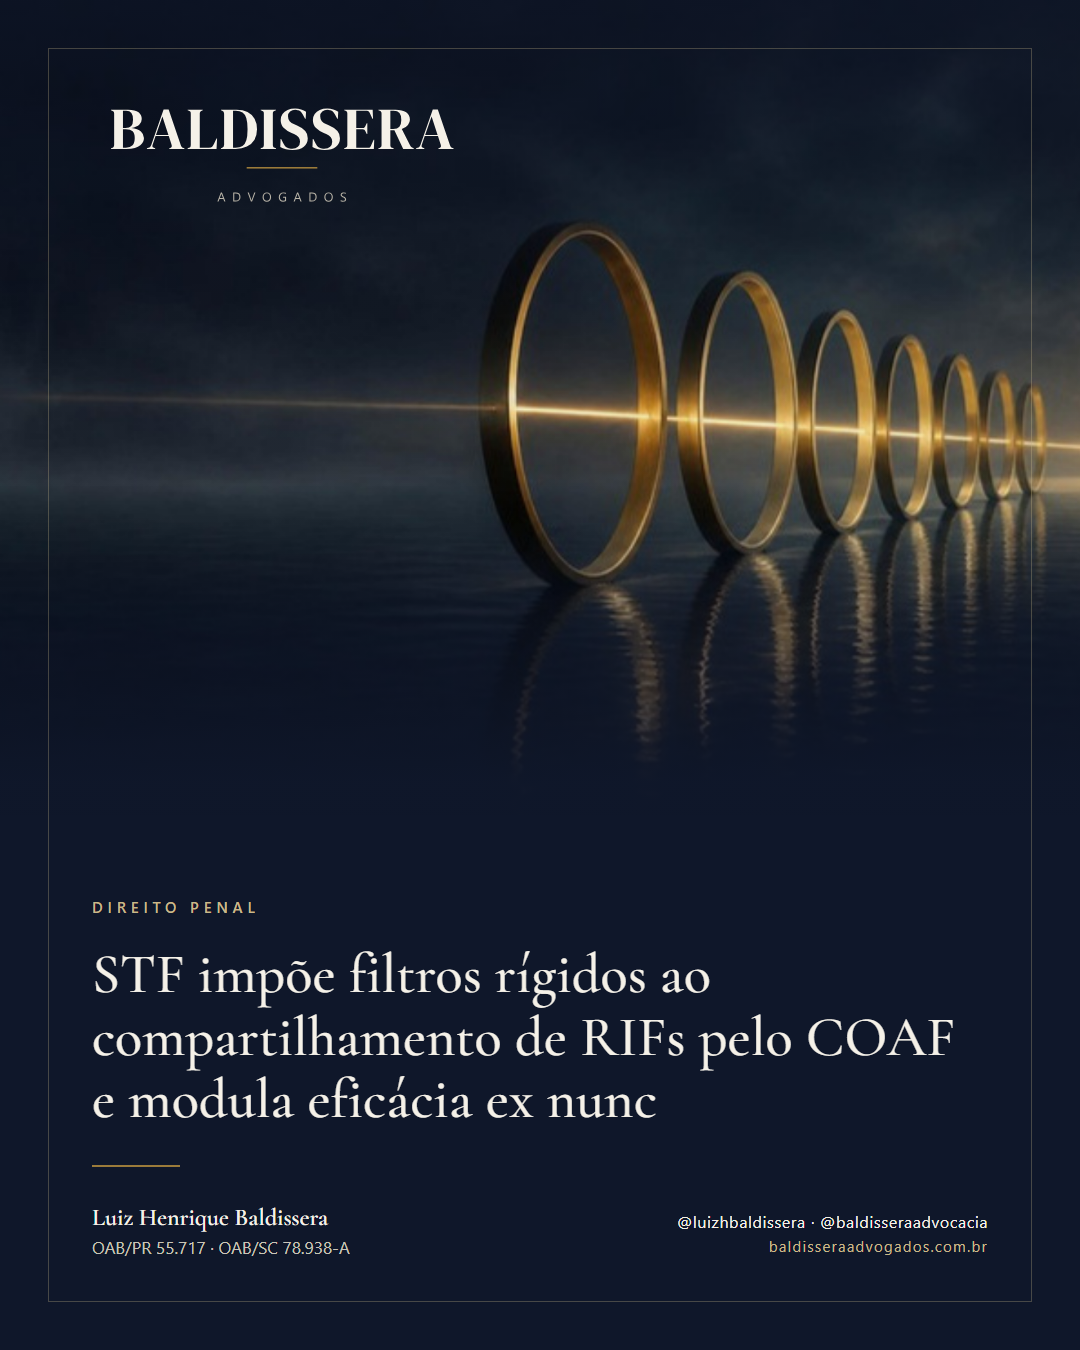
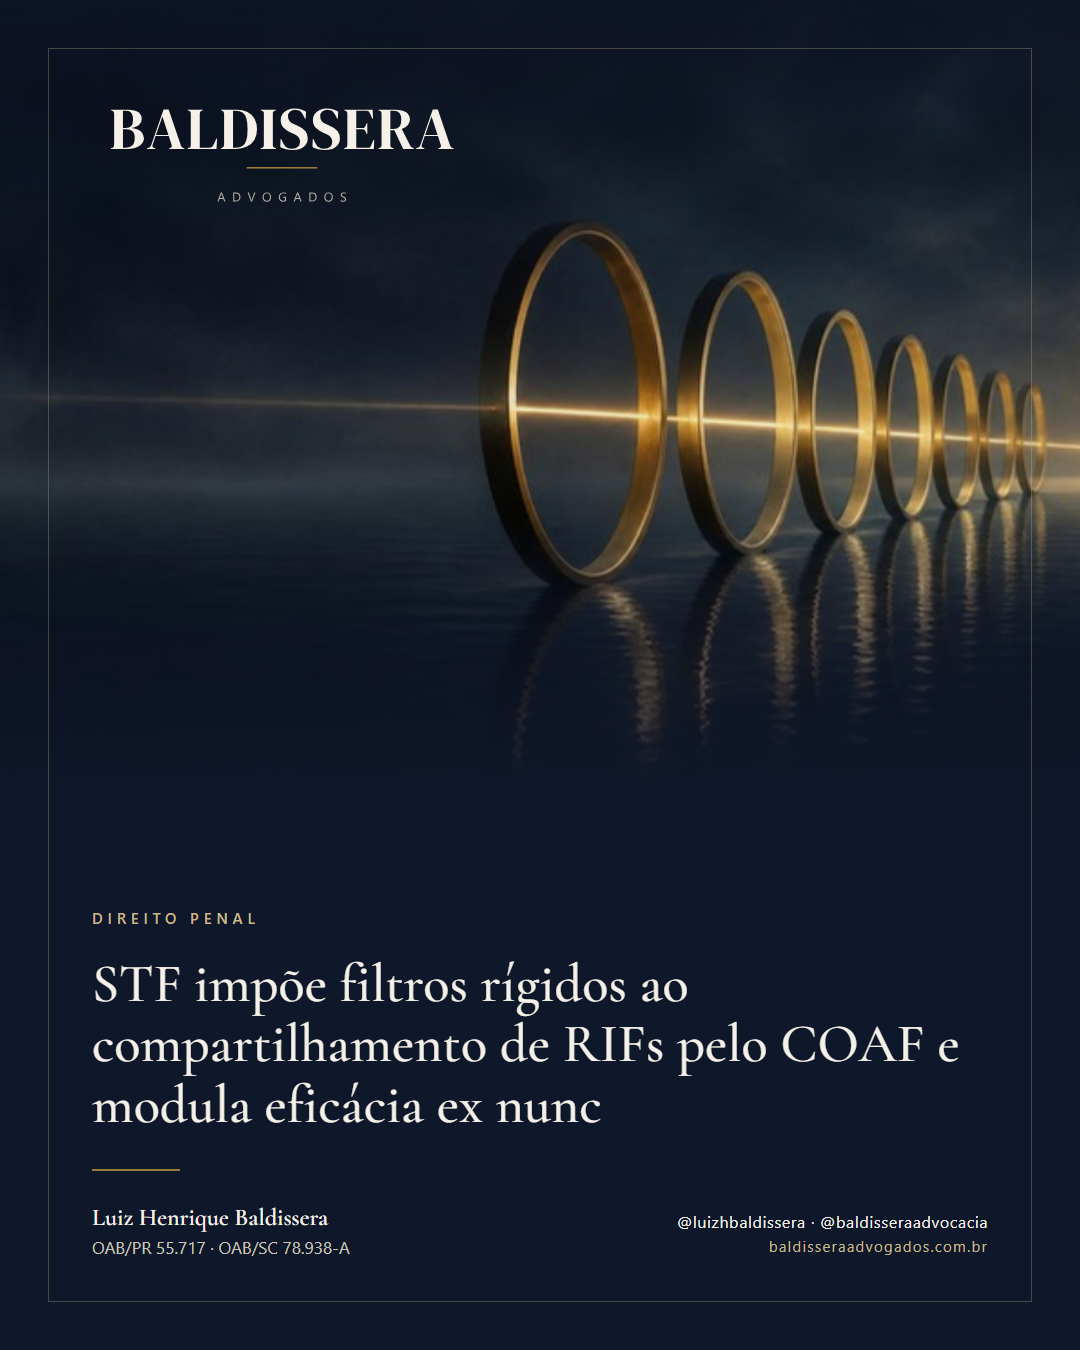
Capas: título da capa quadrada/vertical ajustado para nunca encostar na moldura

Changed region(s): [[0.0917, 0.6533, 0.8861, 0.84]]

diff --git a/site_baldissera_advogados/site_baldissera/tools/publicador/capa.py b/site_baldissera_advogados/site_baldissera/tools/publicador/capa.py
@@ -104,8 +104,8 @@ h1{{font-size:{tamanho_titulo(len(titulo), 50)}px}}
 .foto{{position:absolute;left:0;right:0;top:0;height:{alto + 140}px;background:url("{foto}") center/cover no-repeat;z-index:1}}
 .veu{{position:absolute;inset:0;z-index:2;background:
   linear-gradient(180deg, rgba(15,23,42,.72) 0%, rgba(15,23,42,.10) 22%, rgba(15,23,42,0) 38%, rgba(15,23,42,.55) {int((alto - 40) / h * 100)}%, rgba(15,23,42,.985) {int((alto + 120) / h * 100)}%, {NAVY} 100%)}}
-.meio{{flex:1;display:flex;flex-direction:column;justify-content:flex-end;padding:{alto - respiro + 20}px 0 {36 if vertical else 30}px}}
-h1{{font-size:{tamanho_titulo(len(titulo), 62 if vertical else 58)}px;max-width:{w - 2 * respiro}px}}
+.meio{{flex:1;display:flex;flex-direction:column;justify-content:flex-end;padding:{alto - respiro - 40}px 0 {32 if vertical else 24}px;min-height:0}}
+h1{{font-size:{tamanho_titulo(len(titulo), 60 if vertical else 52)}px;max-width:{w - 2 * respiro}px}}
 """
         camadas = '<div class="foto"></div><div class="veu"></div>'
     else:
